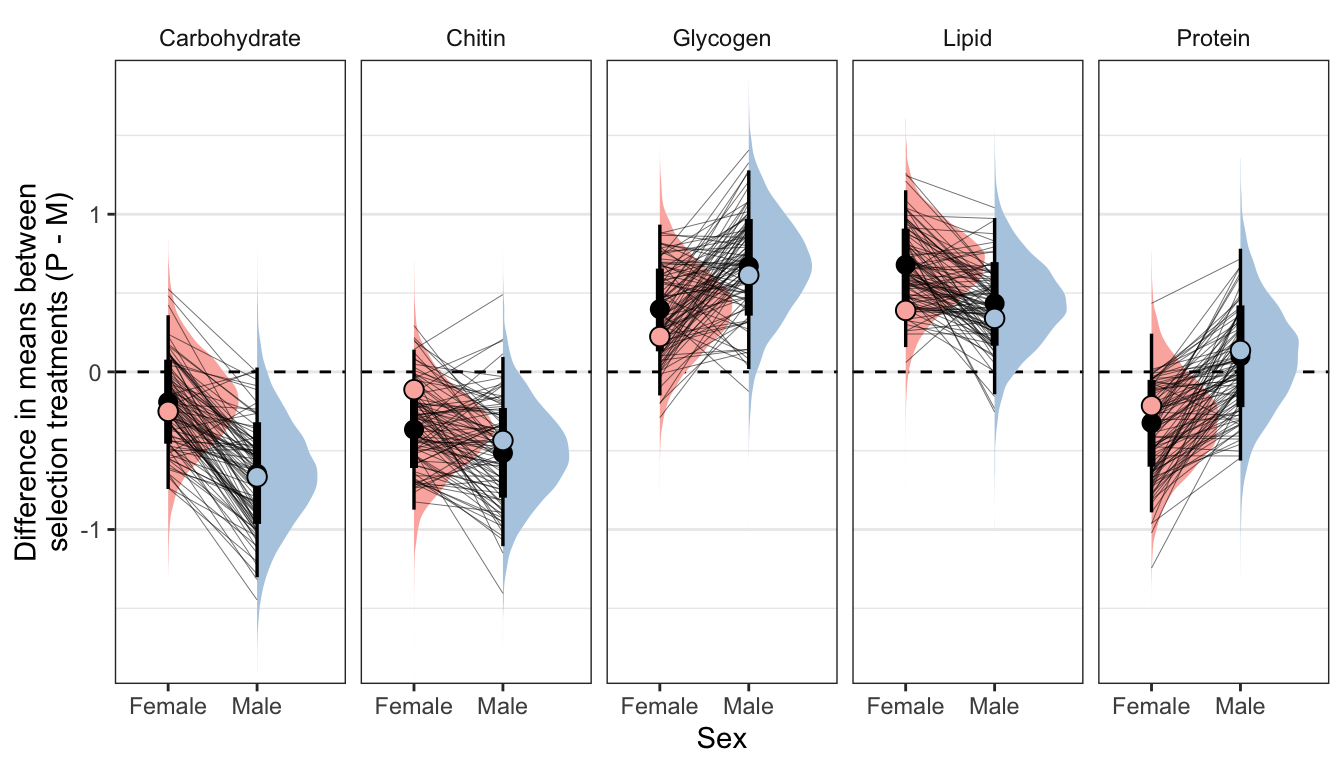
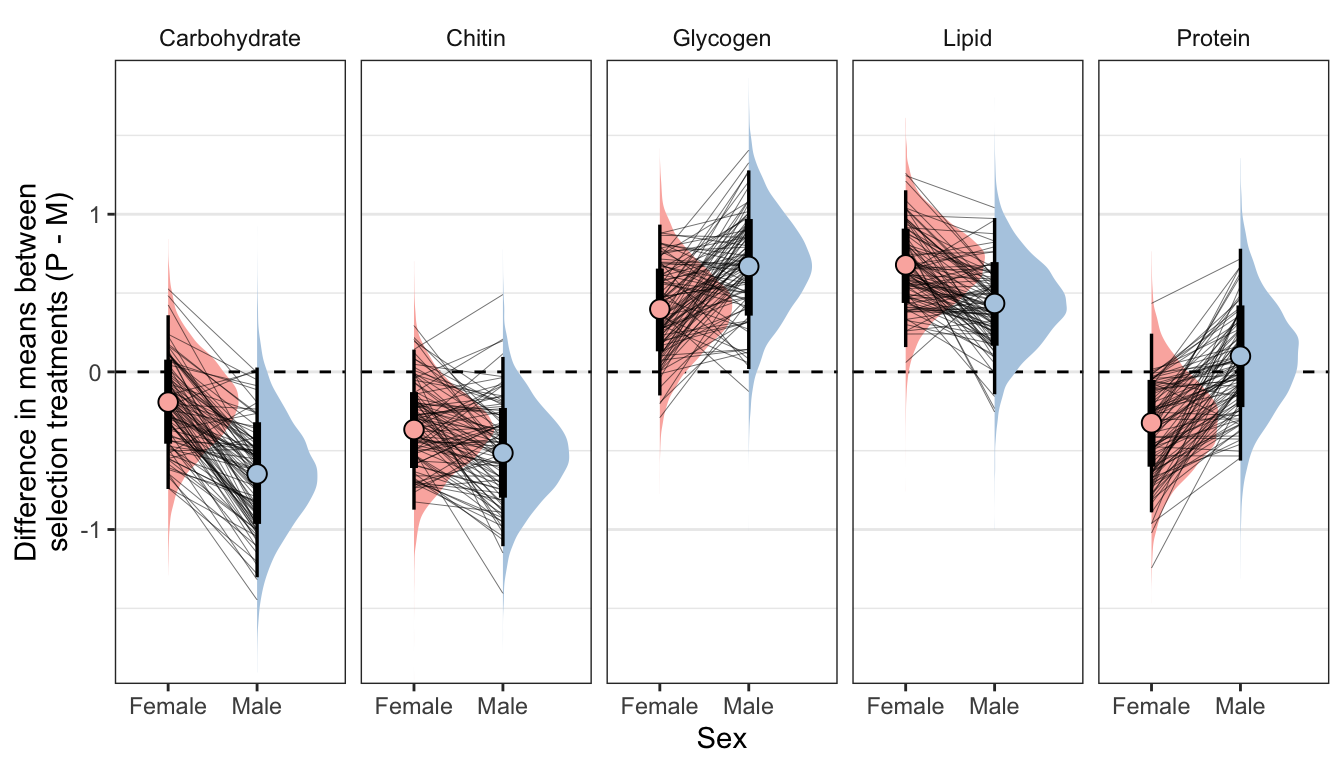
Build site.

diff --git a/docs/metabolites.html b/docs/metabolites.html
@@ -537,16 +537,16 @@ This reproducible <a href="http://rmarkdown.rstudio.com">R Markdown</a> analysis
 <div class="panel panel-default">
 <div class="panel-heading">
 <p class="panel-title">
-<a data-toggle="collapse" data-parent="#workflowr-checks" href="#strongRepositoryversionstrongahrefhttpsgithubcomlukeholmanexpevolrespirationtree9588f442daa3d3e914087a461a55cc8e0e46ede1targetblank9588f44a"> <span class="glyphicon glyphicon-ok text-success" aria-hidden="true"></span> <strong>Repository version:</strong> <a href="https://github.com/lukeholman/exp_evol_respiration/tree/9588f442daa3d3e914087a461a55cc8e0e46ede1" target="_blank">9588f44</a> </a>
+<a data-toggle="collapse" data-parent="#workflowr-checks" href="#strongRepositoryversionstrongahrefhttpsgithubcomlukeholmanexpevolrespirationtreedcb0a6748adc8b00e669d4aa059d550efb08563etargetblankdcb0a67a"> <span class="glyphicon glyphicon-ok text-success" aria-hidden="true"></span> <strong>Repository version:</strong> <a href="https://github.com/lukeholman/exp_evol_respiration/tree/dcb0a6748adc8b00e669d4aa059d550efb08563e" target="_blank">dcb0a67</a> </a>
 </p>
 </div>
[2 lines of base64/hex data omitted]
 <div class="panel-body">
 <p>
 Great! You are using Git for version control. Tracking code development and connecting the code version to the results is critical for reproducibility.
 </p>
 <p>
-The results in this page were generated with repository version <a href="https://github.com/lukeholman/exp_evol_respiration/tree/9588f442daa3d3e914087a461a55cc8e0e46ede1" target="_blank">9588f44</a>. See the <em>Past versions</em> tab to see a history of the changes made to the R Markdown and HTML files.
+The results in this page were generated with repository version <a href="https://github.com/lukeholman/exp_evol_respiration/tree/dcb0a6748adc8b00e669d4aa059d550efb08563e" target="_blank">dcb0a67</a>. See the <em>Past versions</em> tab to see a history of the changes made to the R Markdown and HTML files.
 </p>
 <p>
 Note that you need to be careful to ensure that all relevant files for the analysis have been committed to Git prior to generating the results (you can use <code>wflow_publish</code> or <code>wflow_git_commit</code>). workflowr only checks the R Markdown file, but you know if there are other scripts or data files that it depends on. Below is the status of the Git repository when the results were generated:
@@ -594,6 +594,40 @@ Message
 </tr>
 </thead>
 <tbody>
+<tr>
+<td>
+Rmd
+</td>
+<td>
+<a href="https://github.com/lukeholman/exp_evol_respiration/blob/dcb0a6748adc8b00e669d4aa059d550efb08563e/analysis/metabolites.Rmd" target="_blank">dcb0a67</a>
+</td>
+<td>
+lukeholman
+</td>
+<td>
+2020-12-11
+</td>
+<td>
+Tweaks
+</td>
+</tr>
+<tr>
+<td>
+html
+</td>
+<td>
+<a href="https://rawcdn.githack.com/lukeholman/exp_evol_respiration/a88f03722942e3581b3b24b5806e250213ce2335/docs/metabolites.html" target="_blank">a88f037</a>
+</td>
+<td>
+lukeholman
+</td>
+<td>
+2020-12-11
+</td>
+<td>
+Build site.
+</td>
+</tr>
 <tr>
 <td>
 Rmd
@@ -2612,7 +2646,7 @@ treat_diff_actual_dryweight %&gt;%
               filter(draw %in% sampled_draws) %&gt;%
               filter(variable != &#39;Dryweight&#39;), 
             alpha = 0.8, size = 0.12, colour = &quot;black&quot;, aes(group = draw)) +
-  geom_point(data = summary_dat2, pch = 21, colour = &quot;black&quot;, size = 3.1) + 
+  geom_point(data = summary_dat1, pch = 21, colour = &quot;black&quot;, size = 3.1) + 
   scale_fill_brewer(palette = &#39;Pastel1&#39;, direction = 1, name = &quot;&quot;) +
   scale_colour_brewer(palette = &#39;Pastel1&#39;, direction = 1, name = &quot;&quot;) +
   facet_wrap( ~ variable,  nrow = 1) +
@@ -2645,6 +2679,17 @@ Date
 </tr>
 </thead>
 <tbody>
+<tr>
+<td>
+<a href="https://github.com/lukeholman/exp_evol_respiration/blob/a88f03722942e3581b3b24b5806e250213ce2335/docs/figure/metabolites.Rmd/unnamed-chunk-15-1.png" target="_blank">a88f037</a>
+</td>
+<td>
+lukeholman
+</td>
+<td>
+2020-12-11
+</td>
+</tr>
 <tr>
 <td>
 <a href="https://github.com/lukeholman/exp_evol_respiration/blob/bb96acf3c4f141f3382729ea1d034d06d79ca586/docs/figure/metabolites.Rmd/unnamed-chunk-15-1.png" target="_blank">bb96acf</a>
@@ -2717,7 +2762,7 @@ lukeholman
               filter(draw %in% sampled_draws) %&gt;%
               filter(variable != &#39;Dryweight&#39;), 
             alpha = 0.8, size = 0.12, colour = &quot;black&quot;, aes(group = draw)) +
-  geom_point(data = summary_dat1, pch = 21, colour = &quot;black&quot;, size = 3.1) + 
+  geom_point(data = summary_dat2, pch = 21, colour = &quot;black&quot;, size = 3.1) + 
   scale_fill_brewer(palette = &#39;Pastel1&#39;, direction = 1, name = &quot;&quot;) +
   scale_colour_brewer(palette = &#39;Pastel1&#39;, direction = 1, name = &quot;&quot;) +
   facet_wrap( ~ variable,  nrow = 1) +
@@ -2750,6 +2795,17 @@ Date
 </tr>
 </thead>
 <tbody>
+<tr>
+<td>
+<a href="https://github.com/lukeholman/exp_evol_respiration/blob/a88f03722942e3581b3b24b5806e250213ce2335/docs/figure/metabolites.Rmd/unnamed-chunk-16-1.png" target="_blank">a88f037</a>
+</td>
+<td>
+lukeholman
+</td>
+<td>
+2020-12-11
+</td>
+</tr>
 <tr>
 <td>
 <a href="https://github.com/lukeholman/exp_evol_respiration/blob/bb96acf3c4f141f3382729ea1d034d06d79ca586/docs/figure/metabolites.Rmd/unnamed-chunk-16-1.png" target="_blank">bb96acf</a>
